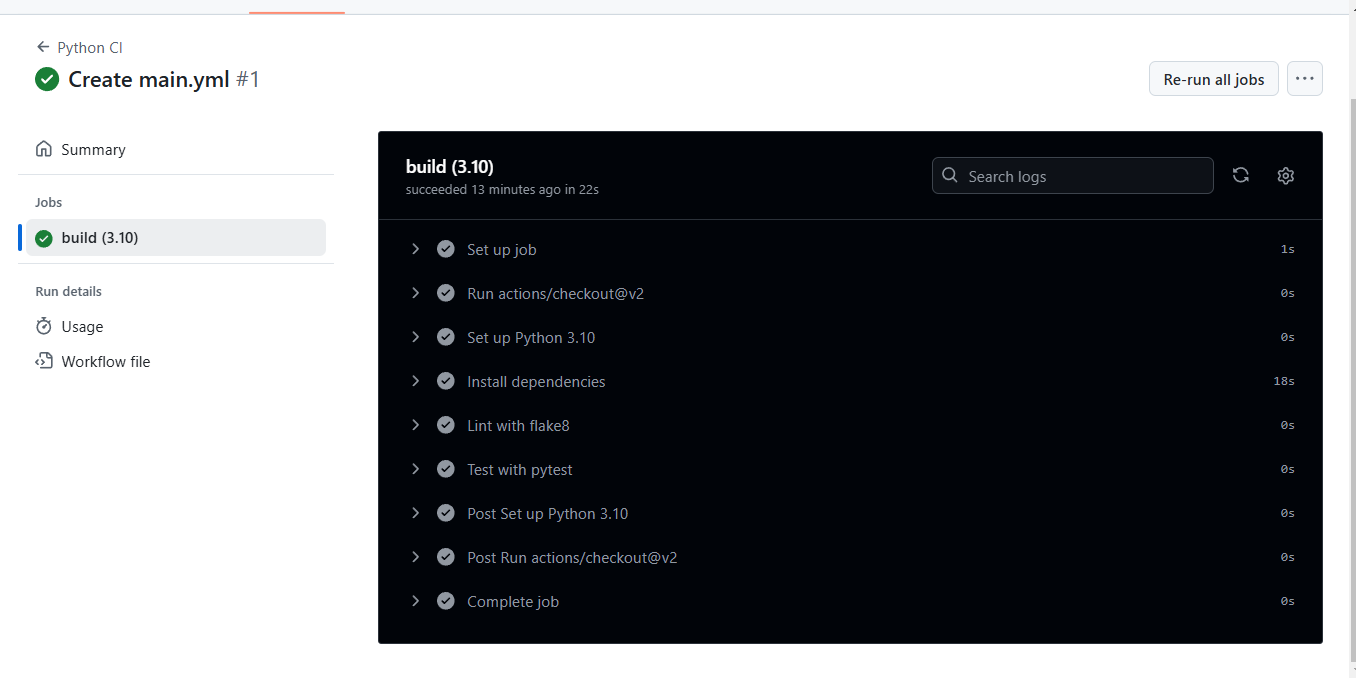
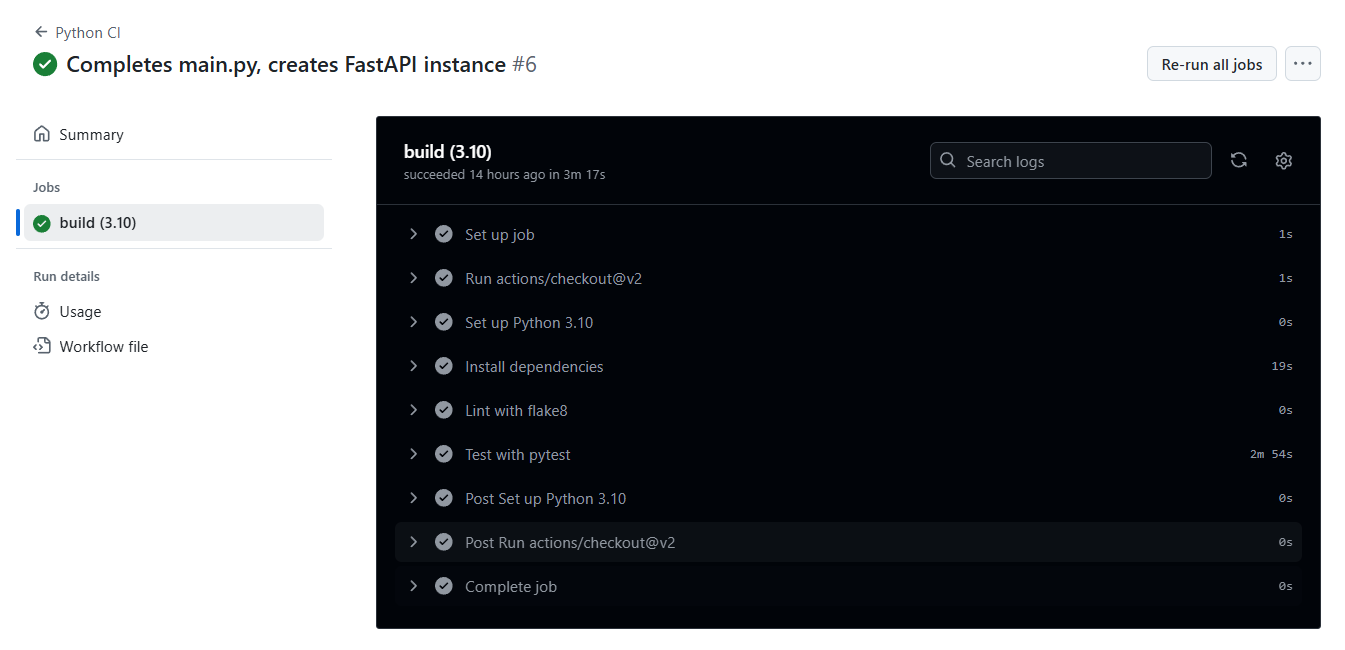
Creates API requests and fixes bug in FastAPI

diff --git a/local_api.py b/local_api.py
@@ -2,13 +2,16 @@ import json
 
 import requests
 
-# TODO: send a GET using the URL http://127.0.0.1:8000
-r = None # Your code here
 
-# TODO: print the status code
-# print()
-# TODO: print the welcome message
-# print()
+r = requests.get(
+    url='http://127.0.0.1:8000',
+    timeout=5
+)
+
+
+print(r.status_code)
+
+print(r.json())
 
 
 
@@ -29,10 +32,14 @@ data = {
     "native-country": "United-States",
 }
 
-# TODO: send a POST using the data above
-r = None # Your code here
 
-# TODO: print the status code
-# print()
-# TODO: print the result
-# print()
+r = requests.post(
+    url='http://127.0.0.1:8000/data/',
+    json=data,
+    timeout=5
+)
+
+
+print(r.status_code)
+
+print(r.json())

diff --git a/main.py b/main.py
@@ -26,10 +26,10 @@ class Data(BaseModel):
     hours_per_week: int = Field(..., example=40, alias="hours-per-week")
     native_country: str = Field(..., example="United-States", alias="native-country")
 
-path = os.path.join(os.get_cwd(), "model", "encoder.pkl")
+path = os.path.join(os.getcwd(), "model", "encoder.pkl")
 encoder = load_model(path)
 
-path = os.path.join(os.get_cwd(), "model", "model.pkl")
+path = os.path.join(os.getcwd(), "model", "model.pkl")
 model = load_model(path)
 
 app = FastAPI()
